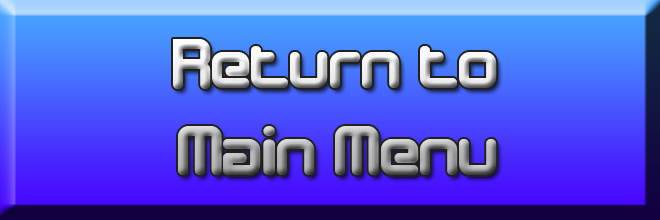
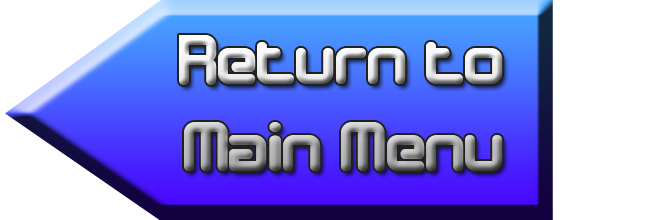
Added back button

diff --git a/src/Difficulty.java b/src/Difficulty.java
@@ -16,6 +16,7 @@ public class Difficulty extends BasicGameState
 	Button easy;
 	Button medium;
 	Button hard;
+	Button back;
 	
 	Image selectText;
 	Image bg;
@@ -30,6 +31,8 @@ public class Difficulty extends BasicGameState
 		medium = new Button("res/MediumMode.png", 960-330, 560, 660, 220);
 		hard = new Button("res/HardMode.png", 960-330, 820, 660, 220);
 		
+		back = new Button("res/RetMainMenu.png", 20, 820, 660, 220);
+		
 		
 	}
 
@@ -41,6 +44,8 @@ public class Difficulty extends BasicGameState
 		easy.render(g);
 		medium.render(g);
 		hard.render(g);
+		
+		back.render(g);
 		
 	}
 
@@ -66,6 +71,9 @@ public class Difficulty extends BasicGameState
 			difficulty = 3;
 			sbg.getState(Game.SINGLE).init(container, sbg);
 			sbg.enterState(Game.SINGLE);
+		}
+		if(back.isClicked(input)) {
+			sbg.enterState(Game.MAIN_MENU);
 		}
 		
 		System.out.println("Difficulty: " + difficulty);
